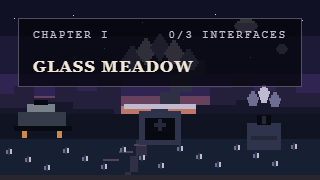
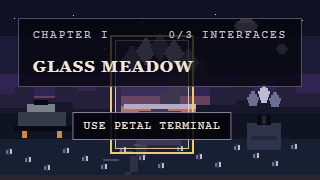
Round 5 step 2 Coder Agent checkpoint

Changed region(s): [[0.2188, 0.1944, 0.75, 0.8611]]

diff --git a/horizon-archive-game/src/App.jsx b/horizon-archive-game/src/App.jsx
@@ -1,4 +1,4 @@
-import { useEffect, useMemo, useState } from "react";
+import { useEffect, useLayoutEffect, useMemo, useRef, useState } from "react";
 import ruinsImage from "../../Concept Art Book/images/drowned-archive-workload-terminal-v1.png";
 import automatonImage from "../../Concept Art Book/images/witness-corridor-evidence-terminal-v1.png";
 import cityImage from "../../Concept Art/Underground City.png";
@@ -128,13 +128,55 @@ const scenes = [
   },
 ];
 
-function TerminalShell({ exerciseId, title, filename, lessonId, statusText, closeLabel = "Close Terminal", onClose, children }) {
+function TerminalShell({ exerciseId, title, filename, lessonId, statusText, closeLabel = "Close Terminal", restoreFocusTo, onClose, children }) {
+  const dialogRef = useRef(null);
+  const titleRef = useRef(null);
+  const triggerRef = useRef(null);
+
+  useLayoutEffect(() => {
+    triggerRef.current = restoreFocusTo ?? (document.activeElement instanceof HTMLElement ? document.activeElement : null);
+    titleRef.current?.focus({ preventScroll: true });
+    return () => {
+      const trigger = triggerRef.current;
+      requestAnimationFrame(() => {
+        if (trigger?.isConnected && !trigger.hasAttribute("disabled")) trigger.focus({ preventScroll: true });
+      });
+    };
+  }, []);
+
+  function handleDialogKeyDown(event) {
+    if (event.key === "Escape") {
+      event.preventDefault();
+      event.stopPropagation();
+      onClose();
+      return;
+    }
+    if (event.key !== "Tab") return;
+    const focusable = [...dialogRef.current.querySelectorAll(
+      'a[href], button:not([disabled]), input:not([disabled]), select:not([disabled]), textarea:not([disabled]), summary, audio[controls], [tabindex]:not([tabindex="-1"])',
+    )].filter((element) => element.getClientRects().length > 0 && !element.closest("[inert]"));
+    if (!focusable.length) {
+      event.preventDefault();
+      titleRef.current?.focus();
+      return;
+    }
+    const first = focusable[0];
+    const last = focusable[focusable.length - 1];
+    if (event.shiftKey && (document.activeElement === first || !focusable.includes(document.activeElement))) {
+      event.preventDefault();
+      last.focus();
+    } else if (!event.shiftKey && document.activeElement === last) {
+      event.preventDefault();
+      first.focus();
+    }
+  }
+
   return (
-    <section className="terminal-workbench" aria-labelledby="terminal-title" data-terminal-exercise={exerciseId}>
+    <section ref={dialogRef} className="terminal-workbench" role="dialog" aria-modal="true" aria-labelledby="terminal-title" data-terminal-exercise={exerciseId} onKeyDown={handleDialogKeyDown}>
       <header className="terminal-titlebar">
         <div>
           <span className="machine-mark" aria-hidden="true">◇</span>
-          <strong id="terminal-title">MACHINE TERMINAL // {title}</strong>
+          <strong ref={titleRef} id="terminal-title" tabIndex="-1">MACHINE TERMINAL // {title}</strong>
         </div>
         <button type="button" onClick={onClose} aria-label={closeLabel}>{closeLabel === "Exit Calibration" ? "Exit" : "Close"}</button>
       </header>
@@ -211,6 +253,7 @@ export function App() {
   const [routeMarkerMastery, setRouteMarkerMastery] = useState(null);
   const [calibrationSession, setCalibrationSession] = useState(null);
   const [calibrationMastery, setCalibrationMastery] = useState(null);
+  const terminalTriggerRef = useRef(null);
 
   const scene = scenes[Math.min(sceneIndex, scenes.length - 1)];
   const sceneHotspots = [{
@@ -232,8 +275,8 @@ export function App() {
       data-hotspot-id={hotspot.id}
       data-primary-hotspot={hotspot.primary ? "true" : undefined}
       style={getHotspotStyle(hotspot.hotspot)}
-      onClick={() => useHotspot(hotspot.id)}
-      disabled={pendingAdvance}
+      onClick={(event) => { terminalTriggerRef.current = event.currentTarget; useHotspot(hotspot.id); }}
+      disabled={pendingAdvance || terminalOpen}
       aria-label={`${verb.toLowerCase()} ${hotspot.label}`}
     >
       <span>{verb} {hotspot.label}</span>
@@ -802,6 +845,7 @@ export function App() {
             title={terminalExercise.title}
             filename={terminalExercise.filename}
             lessonId={terminalExercise.lessonId}
+            restoreFocusTo={terminalTriggerRef.current}
             onClose={() => setTerminalOpen(false)}
           >
             <form className="editor-layout" onSubmit={runTerminal}>
@@ -856,6 +900,7 @@ export function App() {
             title={routeMarkerExercise.title}
             filename={routeSession.form === "transfer" ? "route_marker_transfer.py" : "route_marker_primary.py"}
             lessonId={routeMarkerExercise.lesson_id}
+            restoreFocusTo={terminalTriggerRef.current}
             onClose={() => setTerminalOpen(false)}
           >
             {routeSession.phase === "form" ? (
@@ -1017,6 +1062,7 @@ export function App() {
             title={calibrationExercise.title}
             filename={calibrationExercise.forms[calibrationSession.form].starter_file}
             lessonId={calibrationExercise.lesson_id}
+            restoreFocusTo={terminalTriggerRef.current}
             statusText={`ROUTE OPEN · ${calibrationSession.form}`}
             closeLabel="Exit Calibration"
             onClose={exitCalibration}
@@ -1118,6 +1164,7 @@ export function App() {
             title={workloadSortExercise.title}
             filename={workloadSession.form === "retry" ? "workload_sort_retry.json" : "workload_sort.json"}
             lessonId={workloadSortExercise.lesson_id}
+            restoreFocusTo={terminalTriggerRef.current}
             onClose={() => setTerminalOpen(false)}
           >
             <form className="editor-layout workload-layout" onSubmit={checkWorkloadCard}>
@@ -1212,6 +1259,7 @@ export function App() {
             title={evidencePacketExercise.title}
             filename="working_output.json"
             lessonId={evidencePacketExercise.lesson_id}
+            restoreFocusTo={terminalTriggerRef.current}
             onClose={() => setTerminalOpen(false)}
           >
             <form className="editor-layout evidence-layout" onSubmit={validateEvidenceOutput}>
@@ -1318,7 +1366,7 @@ export function App() {
         )}
       </section>
 
-      <section className="command-panel" aria-label="Adventure controls and dialogue">
+      <section className="command-panel" aria-label="Adventure controls and dialogue" inert={terminalOpen ? true : undefined}>
         <nav className="verb-grid" aria-label="Action verbs">
           {["LOOK AT", "USE", "TALK TO"].map((item) => (
             <button key={item} className={verb === item ? "verb active" : "verb"} onClick={() => setVerb(item)} disabled={pendingAdvance}>{item}</button>
@@ -1347,7 +1395,7 @@ export function App() {
                 <span className="speaker">PILOT // FLIGHT RECORDER</span>
                 <div className="dialogue-actions">
                   {pendingAdvance && scene.id === "meadow" && routeMarkerMastery?.masteryStatus === "mastered" && calibrationMastery?.masteryStatus !== "mastered" && (
-                    <button className="continue-action calibration-launch" onClick={openCalibration}>{calibrationSession ? "Resume Calibration" : "Start Calibration"}</button>
+                    <button className="continue-action calibration-launch" onClick={(event) => { terminalTriggerRef.current = event.currentTarget; openCalibration(); }}>{calibrationSession ? "Resume Calibration" : "Start Calibration"}</button>
                   )}
                   {pendingAdvance && (
                     <button className="continue-action" onClick={continueJourney}>

diff --git a/Exercise Development/WORK_LOG.md b/Exercise Development/WORK_LOG.md
@@ -1,5 +1,13 @@
 # Exercise Agent Work Log
 
+## 2026-07-12 — Coder pass: reusable Terminal focus contract
+
+- **Outcome:** All five exercise workspaces now inherit modal dialog semantics, title-first focus, inert background controls, contained Tab/Shift+Tab navigation, Escape-to-close, and exact trigger focus restoration from the shared `TerminalShell`. Escape preserves each existing in-memory exercise session.
+- **Files changed:** `horizon-archive-game/src/App.jsx`, `playtest/e2e-playthrough.mjs`, and this work log.
+- **Validation:** 30/30 unit tests and production build pass. The complete five-exercise title-to-credits E2E passes with focused checks for dialog naming/modality, initial focus, inert background, forward/reverse containment, Escape, exact Petal-trigger restoration, Escape/reopen state preservation, and zero console/page errors.
+- **Next action:** Accessibility Sentinel Agent should audit the shared contract with a screen reader and browser zoom, especially native audio controls and very long Terminal forms.
+- **Risks:** Focus restoration intentionally skips a trigger that is removed or remains disabled after a mastery transition; ordinary Close/Escape paths restore exactly. Native media-control shadow-DOM traversal remains browser-owned.
+
 ## 2026-07-12 — Route-safe Calibration Debugger
 
 - **Outcome:** Added optional post-route `EX-L0103-CALIBRATION-DEBUG` / `A-L0103-2` / `AS-L0103-DBG` in the completed Glass Meadow. Route acknowledgement still opens traversal immediately; Start/Resume Calibration appears beside Continue, and Exit Calibration is always available without changing the completed physical route.
